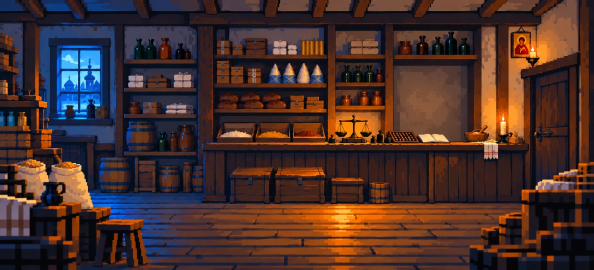
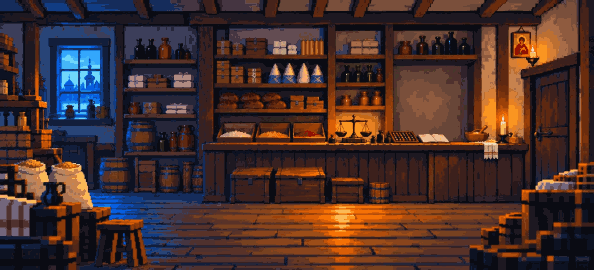
Общая палитра игры (96 цветов): фон, слои лавки и персонажи переведены на неё; жилет на ходьбе под цвет кадра покоя
- tools/palette_lib.py: подбор палитры k-средними в Lab и перевод картинок на палитру
- tools/make_palette.py → assets/palette.png и palette.txt; tools/make_shop.py (вместо make_shop_front.py) собирает фон, прилавок и ящики в палитре
- tools/make_sprites.py: перекрашивание части фигуры (recolor) и перевод на палитру (palette)
- Документы обновлены; проверено: игра запускается, размещение 21/21

Claude-Session: https://claude.ai/code/session_01UqBoURm38CUX7PoEM8bWRy

diff --git a/data.js b/data.js
@@ -12,7 +12,7 @@ const DATA_VERSION = 18;
 //   Файл 594×270 с прозрачностью (непрозрачна только область прилавка, пиксели те же, что в фоне, поэтому дыр и двойных контуров нет).
 //   Если файла нет, а фон есть, слой вырезается из фона по прямоугольнику rect (координаты мира).
 // foreground — передний план: ящики справа перед дверью, 594×270 с прозрачностью; рисуется поверх всех персонажей, поэтому
-//   Андрей и покупатели проходят позади ящиков. Это точная копия пикселей фона внутри силуэта ящиков (собирается tools/make_shop_front.py).
+//   Андрей и покупатели проходят позади ящиков. Это точная копия пикселей фона внутри силуэта ящиков (собирается tools/make_shop.py).
 // portrait — размер крупного портрета в режиме обслуживания (пути портретов лежат у персонажей); goodsIcon — размер значка товара в панели.
 // stockMarks — временные квадратики остатка товара: show 'auto' = рисовать только пока фон ещё заглушка; true/false — принудительно.
 //   Нарисованные на фоне мешки и корзины ОСТАТОК НЕ ПОКАЗЫВАЮТ: точный остаток — только в торговой панели.

diff --git a/tools/make_sprites.py b/tools/make_sprites.py
@@ -1,13 +1,20 @@
-# Подготовка спрайтов из крупных генераций на белом фоне: фон -> прозрачность, уменьшение по площади, общая палитра, ячейка 96×80.
-# Нужен Python 3, numpy, Pillow. Примеры (так собраны файлы 21.10.2026, исходники в assets/source/):
-#   ходьба Андрея (4 кадра, рост 69, кадры выровнены по голове как у кадра покоя):
-#   python tools/make_sprites.py '{"src":["assets/source/andrey_walk_gpt_1.webp","assets/source/andrey_walk_gpt_2.webp","assets/source/andrey_walk_gpt_3.webp","assets/source/andrey_walk_gpt_4.webp"],"height":69,"scaleRef":0,"align":"head","headOffset":0.8,"colors":24,"out":"assets/characters/andrey_walk.png"}'
-#   мать (рост 64):
-#   python tools/make_sprites.py '{"src":["assets/source/mother_gpt.webp"],"height":64,"colors":20,"out":"assets/characters/mother_idle.png"}'
-import sys, json
+# Подготовка спрайтов из крупных генераций на белом фоне: фон -> прозрачность, уменьшение по площади, ячейка 144×120
+# (сетка 480×270), при необходимости перекрашивание части фигуры и перевод на общую палитру игры (assets/palette.png).
+# Нужен Python 3, numpy, Pillow. Так собраны файлы 21.10.2026 (исходники в assets/source/), порядок важен:
+#   1) спрайты без палитры (из них строится палитра), 2) python tools/make_palette.py, 3) python tools/make_shop.py,
+#   4) те же команды спрайтов с "palette":"assets/palette.png".
+#   кадр покоя Андрея (рост 104):
+#   python tools/make_sprites.py '{"src":["assets/source/andrey_idle_original.png"],"height":104,"colors":24,"palette":"assets/palette.png","out":"assets/characters/andrey_idle.png"}'
+#   ходьба Андрея (4 кадра, выровнены по голове кадра покоя; жилет перекрашен под цвет кадра покоя):
+#   python tools/make_sprites.py '{"src":["assets/source/andrey_walk_gpt_1.webp","assets/source/andrey_walk_gpt_2.webp","assets/source/andrey_walk_gpt_3.webp","assets/source/andrey_walk_gpt_4.webp"],"height":104,"scaleRef":0,"align":"head","headOffset":1.37,"colors":24,"recolor":[{"rows":[0.2,0.52],"hue":[16,32],"sat":[0.38,0.8],"val":[0.15,0.5],"shift":10,"satMul":0.85}],"palette":"assets/palette.png","out":"assets/characters/andrey_walk.png"}'
+#   мать (рост 96):
+#   python tools/make_sprites.py '{"src":["assets/source/mother_gpt.webp"],"height":96,"colors":20,"palette":"assets/palette.png","out":"assets/characters/mother_idle.png"}'
+import sys, os, json, colorsys
 from collections import deque
 import numpy as np
 from PIL import Image
+sys.path.insert(0, os.path.dirname(os.path.abspath(__file__)))
+import palette_lib
 
 CELL_W, CELL_H, FLOOR, ANCHOR = 144, 120, 114, 72   # сетка 480×270: ячейка 144×120, подошвы в строке 113, опора x = 72 (можно задать в cfg)
 
@@ -60,6 +67,21 @@ def to_cell(small, cx):
             if small[y, x, 3] and 0 <= y + oy < CELL_H and 0 <= x + ox < CELL_W: cell[y + oy, x + ox] = small[y, x]
     return cell
 
+def recolor(cell, rules):
+    """Перекрашивание части фигуры (например, жилета под цвет кадра покоя). Правило: rows — полоса по высоте фигуры (доли),
+    hue/sat/val — диапазоны тона (градусы), насыщенности и яркости; shift — сдвиг тона, satMul — множитель насыщенности."""
+    a = cell[..., 3] > 0; rows = np.where(a.any(axis=1))[0]
+    if not len(rows): return cell
+    t, b = rows[0], rows[-1]; h = b - t
+    for r in rules:
+        for y in range(t + int(h * r['rows'][0]), t + int(h * r['rows'][1])):
+            for x in range(cell.shape[1]):
+                if not cell[y, x, 3]: continue
+                hh, ss, vv = colorsys.rgb_to_hsv(*(np.clip(cell[y, x, :3], 0, 255) / 255))
+                if r['hue'][0] <= hh * 360 <= r['hue'][1] and r['sat'][0] <= ss <= r['sat'][1] and r['val'][0] <= vv <= r['val'][1]:
+                    cell[y, x, :3] = np.array(colorsys.hsv_to_rgb(((hh * 360 + r['shift']) % 360) / 360, min(1, ss * r.get('satMul', 1)), vv)) * 255
+    return cell
+
 def quantize(cells, colors):
     """Общая палитра для всех ячеек (чтобы кадры не отличались оттенками)."""
     strip = np.concatenate(cells, axis=1)
@@ -84,8 +106,11 @@ if __name__ == '__main__':
         cells = [to_cell(sm, head_center_x(sm) - cfg.get('headOffset', 0)) for sm in smalls]
     else:
         cells = [to_cell(sm, sm.shape[1] / 2) for sm in smalls]
+    if cfg.get('recolor'): cells = [recolor(c, cfg['recolor']) for c in cells]
     sheet = quantize(cells, cfg.get('colors', 24))
-    Image.fromarray(sheet, 'RGBA').save(cfg['out'])
+    img = Image.fromarray(sheet, 'RGBA')
+    if cfg.get('palette'): img = palette_lib.apply(img, palette_lib.load(cfg['palette']))   # общая палитра игры
+    img.save(cfg['out'])
     for i, sm in enumerate(smalls):
         a = sm[..., 3] > 0; print('кадр', i + 1, 'размер фигуры', a.any(axis=0).sum(), '×', a.any(axis=1).sum())
     print('масштаб', round(scale, 4), '->', cfg['out'], sheet.shape[1], '×', sheet.shape[0])

diff --git a/tools/palette_lib.py b/tools/palette_lib.py
@@ -1,0 +1,65 @@
+# Общая палитра игры: подбор цветов (k-средние в пространстве Lab) и перевод картинок на палитру.
+# Нужны Python 3, numpy, Pillow. Используется tools/make_palette.py и tools/make_sprites.py.
+import numpy as np
+from PIL import Image
+
+def rgb_to_lab(rgb):
+    """rgb: массив (N, 3) 0..255 -> Lab (N, 3). sRGB, D65."""
+    c = np.asarray(rgb, np.float64) / 255.0
+    c = np.where(c > 0.04045, ((c + 0.055) / 1.055) ** 2.4, c / 12.92)
+    m = np.array([[0.4124, 0.3576, 0.1805], [0.2126, 0.7152, 0.0722], [0.0193, 0.1192, 0.9505]])
+    xyz = c @ m.T / np.array([0.95047, 1.0, 1.08883])
+    f = np.where(xyz > 0.008856, np.cbrt(xyz), 7.787 * xyz + 16 / 116)
+    return np.stack([116 * f[:, 1] - 16, 500 * (f[:, 0] - f[:, 1]), 200 * (f[:, 1] - f[:, 2])], axis=1)
+
+def nearest(lab, pal_lab, chunk=20000):
+    out = np.empty(len(lab), np.int32)
+    for i in range(0, len(lab), chunk):
+        d = ((lab[i:i + chunk, None, :] - pal_lab[None, :, :]) ** 2).sum(axis=2)
+        out[i:i + chunk] = d.argmin(axis=1)
+    return out
+
+def build(rgb, weights, k, seed=1812, iters=25, sample=60000):
+    """Подбор k цветов. rgb (N, 3), weights (N,) — вес пикселя. Повторяемо (постоянное зерно)."""
+    rng = np.random.default_rng(seed)
+    p = weights / weights.sum()
+    idx = rng.choice(len(rgb), size=min(sample, len(rgb)), replace=True, p=p)
+    pts = rgb_to_lab(rgb[idx]); prgb = rgb[idx].astype(np.float64)
+    # k-means++: следующий центр выбирается тем вероятнее, чем дальше точка от уже выбранных — редкие яркие цвета не теряются
+    centers = [pts[rng.integers(len(pts))]]
+    d2 = ((pts - centers[0]) ** 2).sum(axis=1)
+    for _ in range(1, k):
+        centers.append(pts[rng.choice(len(pts), p=d2 / d2.sum())])
+        d2 = np.minimum(d2, ((pts - centers[-1]) ** 2).sum(axis=1))
+    C = np.array(centers)
+    for _ in range(iters):
+        lab_idx = nearest(pts, C)
+        for j in range(k):
+            sel = lab_idx == j
+            if sel.any(): C[j] = pts[sel].mean(axis=0)
+    # цвет палитры — настоящий средний RGB своей группы (без обратного перевода из Lab)
+    lab_idx = nearest(pts, C)
+    pal = np.array([prgb[lab_idx == j].mean(axis=0) if (lab_idx == j).any() else [0, 0, 0] for j in range(k)])
+    pal = np.clip(np.round(pal), 0, 255).astype(np.uint8)
+    pal = np.unique(pal, axis=0)
+    order = np.argsort(rgb_to_lab(pal)[:, 0])           # по светлоте — удобнее смотреть образец
+    return pal[order]
+
+def load(path):
+    a = np.asarray(Image.open(path).convert('RGB')).reshape(-1, 3)
+    return np.unique(a, axis=0)
+
+def apply(img, pal):
+    """Переводит RGBA/RGB-картинку на палитру (ближайший цвет в Lab, без дизеринга). Прозрачность сохраняется."""
+    im = img.convert('RGBA'); a = np.asarray(im).copy()
+    flat = a.reshape(-1, 4); vis = flat[:, 3] > 0
+    if vis.any():
+        flat[vis, :3] = pal[nearest(rgb_to_lab(flat[vis, :3]), rgb_to_lab(pal))]
+    return Image.fromarray(a, 'RGBA')
+
+def swatch(pal, path, cols=16, cell=12):
+    rows = (len(pal) + cols - 1) // cols
+    im = Image.new('RGB', (cols * cell, rows * cell), (0, 0, 0))
+    for i, c in enumerate(pal):
+        im.paste(tuple(int(v) for v in c), ((i % cols) * cell, (i // cols) * cell, (i % cols + 1) * cell, (i // cols + 1) * cell))
+    im.save(path)

diff --git a/tools/make_palette.py b/tools/make_palette.py
@@ -1,0 +1,30 @@
+# Собирает общую палитру игры assets/palette.png (96 цветов) из фона лавки и спрайтов персонажей.
+# Палитра нужна, чтобы картинки из разных генераций выглядели одной игрой: все ассеты переводятся на неё
+# (tools/make_shop.py для лавки, tools/make_sprites.py с параметром "palette" для персонажей).
+# Подбор: k-средние в пространстве Lab (tools/palette_lib.py), повторяемо. Насыщенные пиксели весят больше,
+# пиксели персонажей ×60, чтобы их цвета (кожа, одежда) не потерялись среди фона.
+# Запуск: python tools/make_palette.py   (нужны numpy, Pillow)
+import os, sys
+sys.path.insert(0, os.path.dirname(os.path.abspath(__file__)))
+import numpy as np
+from PIL import Image
+import palette_lib as P
+COLORS = 96
+bg = Image.open('assets/source/shop_v2_original.webp').convert('RGB').resize((594, 270), Image.BOX)
+bgp = np.asarray(bg).reshape(-1, 3)
+sp = []
+for f in ['andrey_idle.png', 'andrey_walk.png', 'mother_idle.png']:
+    a = np.asarray(Image.open('assets/characters/' + f).convert('RGBA')).reshape(-1, 4)
+    sp.append(a[a[:, 3] > 0][:, :3])
+sp = np.concatenate(sp)
+rgb = np.concatenate([bgp, sp])
+lab = P.rgb_to_lab(rgb); chroma = np.hypot(lab[:, 1], lab[:, 2])
+# вес: насыщенные пиксели важнее (редкие яркие цвета — пряности, окно, икона — получают свои места в палитре),
+# пиксели персонажей ×60 (кожа и одежда не должны сереть)
+w = (1 + chroma / 15) * np.concatenate([np.ones(len(bgp)), np.full(len(sp), 60.0)])
+pal = P.build(rgb, w, COLORS)
+P.swatch(pal, 'assets/palette.png')
+with open('assets/palette.txt', 'w') as f:
+    f.write('# Общая палитра «Летописей 1812» (' + str(len(pal)) + ' цветов, от тёмных к светлым). Собирает tools/make_palette.py.\n')
+    f.write(' '.join('#%02X%02X%02X' % tuple(int(v) for v in c) for c in pal) + '\n')
+print('Готово: assets/palette.png и assets/palette.txt,', len(pal), 'цветов')

diff --git a/tools/make_shop.py b/tools/make_shop.py
@@ -1,0 +1,24 @@
+# Собирает слои лавки из исходника фона assets/source/shop_v2_original.webp (1860×845) в общей палитре игры:
+#   assets/backgrounds/shop.png         — фон 594×270 (уменьшение целиком, по площади), переведён на assets/palette.png;
+#   assets/backgrounds/shop_counter.png — передняя часть прилавка (прямоугольник COUNTER), точная копия пикселей фона;
+#   assets/backgrounds/shop_front.png   — передние ящики справа по силуэту SILHOUETTE, точная копия пикселей фона.
+# Силуэт ящиков обведён вручную по контурам ящиков и мешков (пол и дверь не входят). Если фон поменяется, обвести заново.
+# Запуск (нужны numpy и Pillow): python tools/make_shop.py   (сначала палитра: python tools/make_palette.py)
+import os, sys
+sys.path.insert(0, os.path.dirname(os.path.abspath(__file__)))
+import palette_lib
+from PIL import Image, ImageDraw
+SRC, PALETTE = 'assets/source/shop_v2_original.webp', 'assets/palette.png'
+COUNTER = (202, 142, 202 + 328, 142 + 62)          # x0, y0, x1, y1 — как ART.counterFront.rect в data.js
+SILHOUETTE = [(470, 270), (470, 244), (482, 244), (482, 228), (500, 228), (500, 213), (522, 213), (522, 189), (531, 189), (532, 186), (534, 183), (537, 180), (542, 178), (552, 177), (554, 174), (556, 171), (570, 170), (578, 168), (579, 164), (594, 162), (594, 270)]
+bg = Image.open(SRC).convert('RGB').resize((594, 270), Image.BOX)
+bg = palette_lib.apply(bg, palette_lib.load(PALETTE)).convert('RGBA')
+bg.convert('RGB').save('assets/backgrounds/shop.png')
+counter = Image.new('RGBA', bg.size, (0, 0, 0, 0)); counter.paste(bg.crop(COUNTER), COUNTER[:2])
+counter.save('assets/backgrounds/shop_counter.png')
+mask = Image.new('L', bg.size, 0)
+ImageDraw.Draw(mask).polygon(SILHOUETTE, fill=255)
+front = Image.new('RGBA', bg.size, (0, 0, 0, 0))
+front.paste(bg, (0, 0), mask)
+front.save('assets/backgrounds/shop_front.png')
+print('Готово: shop.png, shop_counter.png, shop_front.png')

diff --git a/PROJECT_STATE.md b/PROJECT_STATE.md
@@ -20,6 +20,12 @@
 - Все координаты в `data.js` умножены на 1,5 (лавка 594×270, лабаз 480×270, пол y = 225, рабочее место x = 448, дверь x = 558 и т. д.), скорость ходьбы 70 и покупателей 60 пикселей в секунду. Интерфейс на экране прежний: его размеры заданы в единицах прежней сетки (`--u` = 1,5 × `--s`).
 - Персонажи: ячейка **144×120**, опора (72, 114), Андрей **104** пикселя, мать 96; портреты **180×204**, значки товаров 36×36.
 
+## Общая палитра (21.10.2026)
+- Все ассеты переведены на одну палитру из **96 цветов** (`assets/palette.png`, `assets/palette.txt`), собранную из фона лавки и персонажей (`tools/make_palette.py`: k-средние в пространстве Lab; насыщенные цвета и цвета персонажей весят больше). Фон, прилавок, ящики, Андрей (покой и ходьба) и мать — ни одного цвета вне палитры.
+- Жилет Андрея на кадрах ходьбы перекрашен из рыжего в оливковый, как на кадре покоя (исходник Кирилла — эталон).
+- Сравнивались палитры 48, 64, 96 цветов: простое медианное разбиение теряло синее окно; k-средние сохраняют окно, свет свечи, пряности, кожу; при 96 лучше остаётся цветное стекло бутылок. Проверено: игра запускается (1920×1080, 1280×720), размещение 21/21. Глазами оценивал Claude, **оценка Кирилла не получена**.
+- Новые картинки (Павел, Дарья, Сорокин, лабаз) переводятся на эту же палитру при подключении.
+
 ## Дата и время — решено
 - **Игра начинается 1 июня 1812 года по старому стилю** (юлианский календарь). Подтверждено Кириллом окончательно; прежнее требование о старте 1 июля отменено.
 - Время меняется от действий игрока, а не по часам: утро (лавка закрыта) → «Открыть лавку» → день (покупатели дня) → «Закрыть лавку» → вечер (итоги дня) → «Закончить день» → ночь → утро следующего дня. В углу экрана: «1 июня 1812, утро».
@@ -53,7 +59,7 @@
 - Сохранение в браузере: место, день, часть дня, деньги, товар, сделки, слухи, обещания, заказы. Старые сохранения дополняются; переписанные июньские слух и обещание переносятся на новые id.
 
 ## Графика
-- **Есть (пересобраны 21.10.2026 под 480×270 из исходников в `assets/source/`):** фон лавки `shop.png` (594×270), слой прилавка `shop_counter.png`, передние ящики `shop_front.png`, Андрей — покой `andrey_idle.png` (144×120, из `andrey_idle_original.png`) и ходьба `andrey_walk.png` (**4 кадра 144×120, лист 576×120**, промежуточно; цель — 8), мать в сцене `mother_idle.png` (144×120). Ходьба и мать — из генераций ChatGPT, собраны `tools/make_sprites.py`; **оценка Кириллом не получена**.
+- **Есть (пересобраны 21.10.2026 под 480×270 из исходников в `assets/source/`):** фон лавки `shop.png` (594×270), слой прилавка `shop_counter.png`, передние ящики `shop_front.png`, Андрей — покой `andrey_idle.png` (144×120, из `andrey_idle_original.png`) и ходьба `andrey_walk.png` (**4 кадра 144×120, лист 576×120**, промежуточно; цель — 8), мать в сцене `mother_idle.png` (144×120). Ходьба и мать — из генераций ChatGPT, собраны `tools/make_sprites.py`; все ассеты в общей палитре (`assets/palette.png`); **оценка Кириллом не получена**.
 - **Нет (честные заглушки, в углу «Временная графика»):** фигуры Павла, Дарьи, Фёдора, Сорокина (`*_idle.png`, человечки), портреты всех (плашка с буквой), фон лабаза (`labaz.png`, стена и мешки прямоугольниками), значки товаров (цветные квадраты). Пути к файлам прописаны в `data.js`, но **сами файлы не переданы — это не готовая графика**.
 - Требования к файлам — `docs/ART_REQUIREMENTS.md`, промты для ChatGPT — `docs/GPT_PROMPTS.md`.
 
@@ -225,7 +231,7 @@ Claude, Chromium без окна, 20.10.2026, окно 820×709 (для сним
 **Реализовано:**
 - **Масштаб:** `charScale` 1.2 → **1**. Андрей 69 пикселей (фигура 16×69 в ячейке 96×80, стопы в строке 75, опора 48/76), по осям не растягивается. Сравнение 1.2 и 1 на скриншотах: при 1.2 он почти с дверь ростом, при 1 дверной проём выше, прилавок по пояс, стопы на досках.
 - **За прилавком:** `workX` 285 → **300**, `serviceY` 133 (без изменений), покупатель `customerX` 235 → **258**. Андрей в профиль лицом влево, голова и торс на гладкой стенной панели у правого края книги, ниже края прилавка его не видно; фигура целиком левее панели цены (при 304 её край закрывал спину).
-- **Проход к двери:** слой `shop_front.png` — передние ящики справа, точная копия пикселей фона по силуэту ящиков и мешков (пол и дверь не входят); собирается `tools/make_shop_front.py`. Граница ходьбы `walkMax` 308 → **372**: Андрей подходит к двери и стоит позади ящиков, дальше стена. Выхода на улицу нет. Покупатели тоже входят и уходят позади ящиков.
+- **Проход к двери:** слой `shop_front.png` — передние ящики справа, точная копия пикселей фона по силуэту ящиков и мешков (пол и дверь не входят); собирался `tools/make_shop_front.py` (теперь `tools/make_shop.py`). Граница ходьбы `walkMax` 308 → **372**: Андрей подходит к двери и стоит позади ящиков, дальше стена. Выхода на улицу нет. Покупатели тоже входят и уходят позади ящиков.
 - **Спрайты матери и людей в сцене:** у матери, покупателей и Сорокина в `data.js` настройка `sprite` (путь, ячейка, точка опоры, направление в файле); игра рисует спрайт в масштабе Андрея и отражает по направлению, без файла — заглушка. Фигура и портрет — разные файлы. Требования и описание внешности — `docs/ART_REQUIREMENTS.md`, раздел 4а.
 - **Заглушки не изображают ходьбу:** у человечков убрано покачивание ног (было имитацией шагов); идущий покупатель показан неподвижной фигурой.
 - Мать: из документов убрано утверждение, которое можно было понять как утверждённую внешность.

diff --git a/docs/ART_REQUIREMENTS.md b/docs/ART_REQUIREMENTS.md
@@ -26,6 +26,7 @@
 - **Сетка 480×270 (с 21.10.2026; раньше 320×180).** Масштаб 1:1: игра рисует сцену на сетке 480×270 и увеличивает её на экране только целое число раз без сглаживания (1920×1080 — ×4; окно 1280×720 — ×2 с полями). Один пиксель картинки равен одному пикселю сетки.
 - Переход выбран по сравнению на макете (320×180 против 480×270 из одних исходников): родная детализация фона-исходника около 465–620 пикселей в ширину, генерации персонажей — около 100 «пикселей» ростом, поэтому 480×270 почти не теряет нарисованного. Все координаты умножены на 1,5; ассеты пересобраны из исходников.
 - Для персонажей и слоёв с прозрачностью: альфа только 0 или 255, без полупрозрачных краёв.
+- **Общая палитра (с 21.10.2026):** все ассеты игры переводятся на одну палитру из 96 цветов — `assets/palette.png` (образец) и `assets/palette.txt` (список цветов). Палитра собрана из фона лавки и персонажей (k-средние в пространстве Lab, насыщенные цвета и цвета персонажей весят больше, чтобы не терялись окно, пряности, кожа). Благодаря ей картинки из разных генераций выглядят одной игрой. Рисовать «в палитру» не обязательно: присланные картинки переводит на неё Claude (`tools/make_sprites.py` с параметром `palette`, `tools/make_shop.py`). Если палитру пересобрать (`tools/make_palette.py`), все ассеты надо пересобрать заново.
 - Имена только латиницей, без пробелов, без «(1)». Регистр важен.
 - Тестовые и концептуальные картинки в `assets/` не класть, исходники только в `assets/source/`.
 
@@ -76,7 +77,7 @@
 
 `assets/backgrounds/shop_front.png`, 594×270 с прозрачностью (альфа 0/255); рисуется поверх всех персонажей. **Подготовлен 21.10.2026** из `shop.png`: внутри силуэта передних ящиков справа (лесенка ящиков с x ≈ 470 и стопка с мешками перед дверью с y ≈ 162) — точная копия пикселей фона, всё остальное прозрачно. Силуэт обведён вручную по контурам ящиков и мешков, **пол и дверь в слой не входят** (это не прямоугольник). Поэтому Андрей и покупатели у двери проходят позади ящиков: видна верхняя часть тела, ноги закрыты ящиками.
 
-Слой собирает `tools/make_shop_front.py` (Python 3 + Pillow; силуэт — список точек в начале файла). Если Кирилл перерисует фон или ящики, силуэт надо обвести заново и пересобрать слой. Если файла нет, игра пишет «Временная графика» и рисует Андрея поверх ящиков.
+Слой собирает `tools/make_shop.py` вместе с фоном и слоем прилавка (Python 3, numpy, Pillow; силуэт — список точек в начале файла). Если Кирилл перерисует фон или ящики, силуэт надо обвести заново и пересобрать слой. Если файла нет, игра пишет «Временная графика» и рисует Андрея поверх ящиков.
 
 ## 4. Андрей
 
@@ -97,7 +98,7 @@
 
 **Как подготовлен кадр покоя (сетка 480×270).** Из присланной фигуры `assets/source/andrey_idle_original.png` (1145×1374, белый фон): фон убран заливкой от краёв, фигура уменьшена без растяжения по осям до 24×104 пикселей (строки 10–113, центр головы x ≈ 73.4), усреднением по площади, альфа 0/255, 24 цвета. Лицо около 6×6 пикселей (в сетке 320×180 было 4×4). **Кириллу оценить глазами лицо, волосы и силуэт.**
 
-**Ходьба.** 4 кадра из генераций ChatGPT (`assets/source/andrey_walk_gpt_1…4.webp`): белый фон убран, все кадры в одном масштабе (рост 104–106), общая палитра 24 цвета, альфа 0/255, подошвы на строке 113, кадры выровнены по голове так же, как кадр покоя, чтобы фигура не дёргалась. Порядок: контакт, проход, контакт, проход. `ANDREY.cycleDistance = 78`: опорная стопа смещается на 11 и 27 пикселей за шаг; так как позы неравномерны, лёгкое проскальзывание стоп на 4 кадрах остаётся, полностью его уберут 8 кадров. Всё собирается `tools/make_sprites.py` (команды — в начале файла). **Кириллу оценить:** лицо и одежда в кадрах, мах рук, скольжение. Если файла ходьбы нет, игра подставляет статичный кадр покоя (это не анимация). Не собирать ходьбу вращением частей тела; требования к кадрам в `docs/ANIMATION_SPEC.md`.
+**Ходьба.** 4 кадра из генераций ChatGPT (`assets/source/andrey_walk_gpt_1…4.webp`): белый фон убран, все кадры в одном масштабе (рост 104–106), жилет перекрашен из рыжего в оливковый, как на кадре покоя (ChatGPT нарисовал их по-разному), цвета переведены на общую палитру, альфа 0/255, подошвы на строке 113, кадры выровнены по голове так же, как кадр покоя, чтобы фигура не дёргалась. Порядок: контакт, проход, контакт, проход. `ANDREY.cycleDistance = 78`: опорная стопа смещается на 11 и 27 пикселей за шаг; так как позы неравномерны, лёгкое проскальзывание стоп на 4 кадрах остаётся, полностью его уберут 8 кадров. Всё собирается `tools/make_sprites.py` (команды — в начале файла). **Кириллу оценить:** лицо и одежда в кадрах, мах рук, скольжение. Если файла ходьбы нет, игра подставляет статичный кадр покоя (это не анимация). Не собирать ходьбу вращением частей тела; требования к кадрам в `docs/ANIMATION_SPEC.md`.
 
 **Масштаб в игре.** `SCENE.charScale = 1`: персонажи рисуются как нарисованы, пиксель в пиксель. Фигуру отдельно по осям не растягиваем.
 

diff --git a/README.md b/README.md
@@ -44,7 +44,7 @@
 - assets/portraits/ — портреты для диалога (`pavel.png`, `darya.png`, `fedor.png`, `mother.png`, `sorokin.png`, 180×204), пока не переданы.
 - assets/goods/ — необязательные значки товаров 36×36.
 - assets/source/ — оригиналы присланных исходников (игра их не загружает).
-- tools/ — вспомогательные скрипты для команды (`make_shop_front.py` — слой передних ящиков из фона, `make_sprites.py` — спрайты из крупных генераций); игре не нужны.
+- tools/ — вспомогательные скрипты для команды: `make_palette.py` — общая палитра игры (`assets/palette.png`), `make_shop.py` — фон лавки, прилавок и передние ящики из исходника, `make_sprites.py` — спрайты из крупных генераций; игре не нужны.
 - docs/ — решения и требования (`ANIMATION_SPEC.md`, `ART_REQUIREMENTS.md`), планы (`REPUTATION_PLAN.md` — репутация, черновик), промты для ChatGPT (`GPT_PROMPTS.md` — персонажи в стиле Андрея, ходьба в 4 кадра).
 
 Названия файлов — латиницей, без пробелов. Пример: andrey_walk.png. Не загружаем пароли, ключи API, node_modules и временные файлы.
